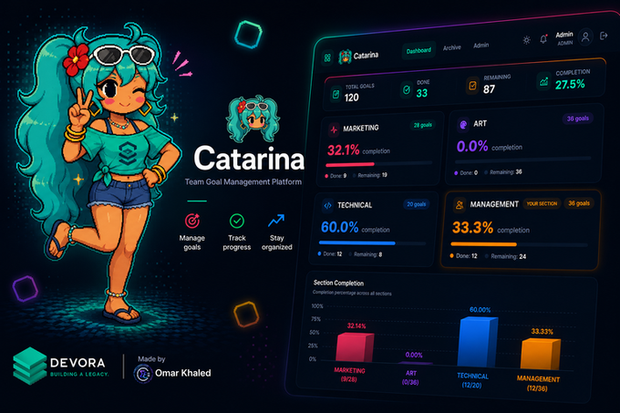
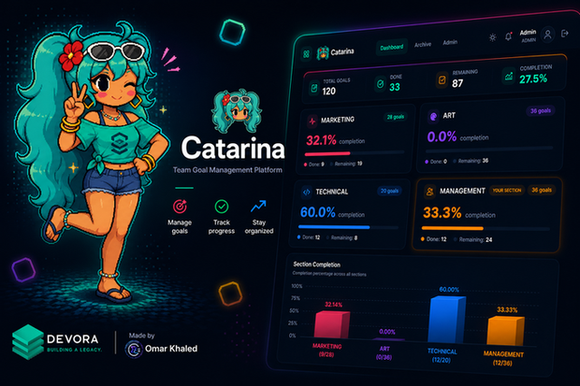
fix: update OG image dimensions to match compressed file

diff --git a/src/app/layout.tsx b/src/app/layout.tsx
@@ -46,8 +46,8 @@ export const metadata: Metadata = {
         url: "https://catarina-devora.vercel.app/og-image.png",
         secureUrl: "https://catarina-devora.vercel.app/og-image.png",
         type: "image/png",
-        width: 1200,
-        height: 630,
+        width: 580,
+        height: 386,
         alt: "Catarina Preview Image",
       },
     ],
